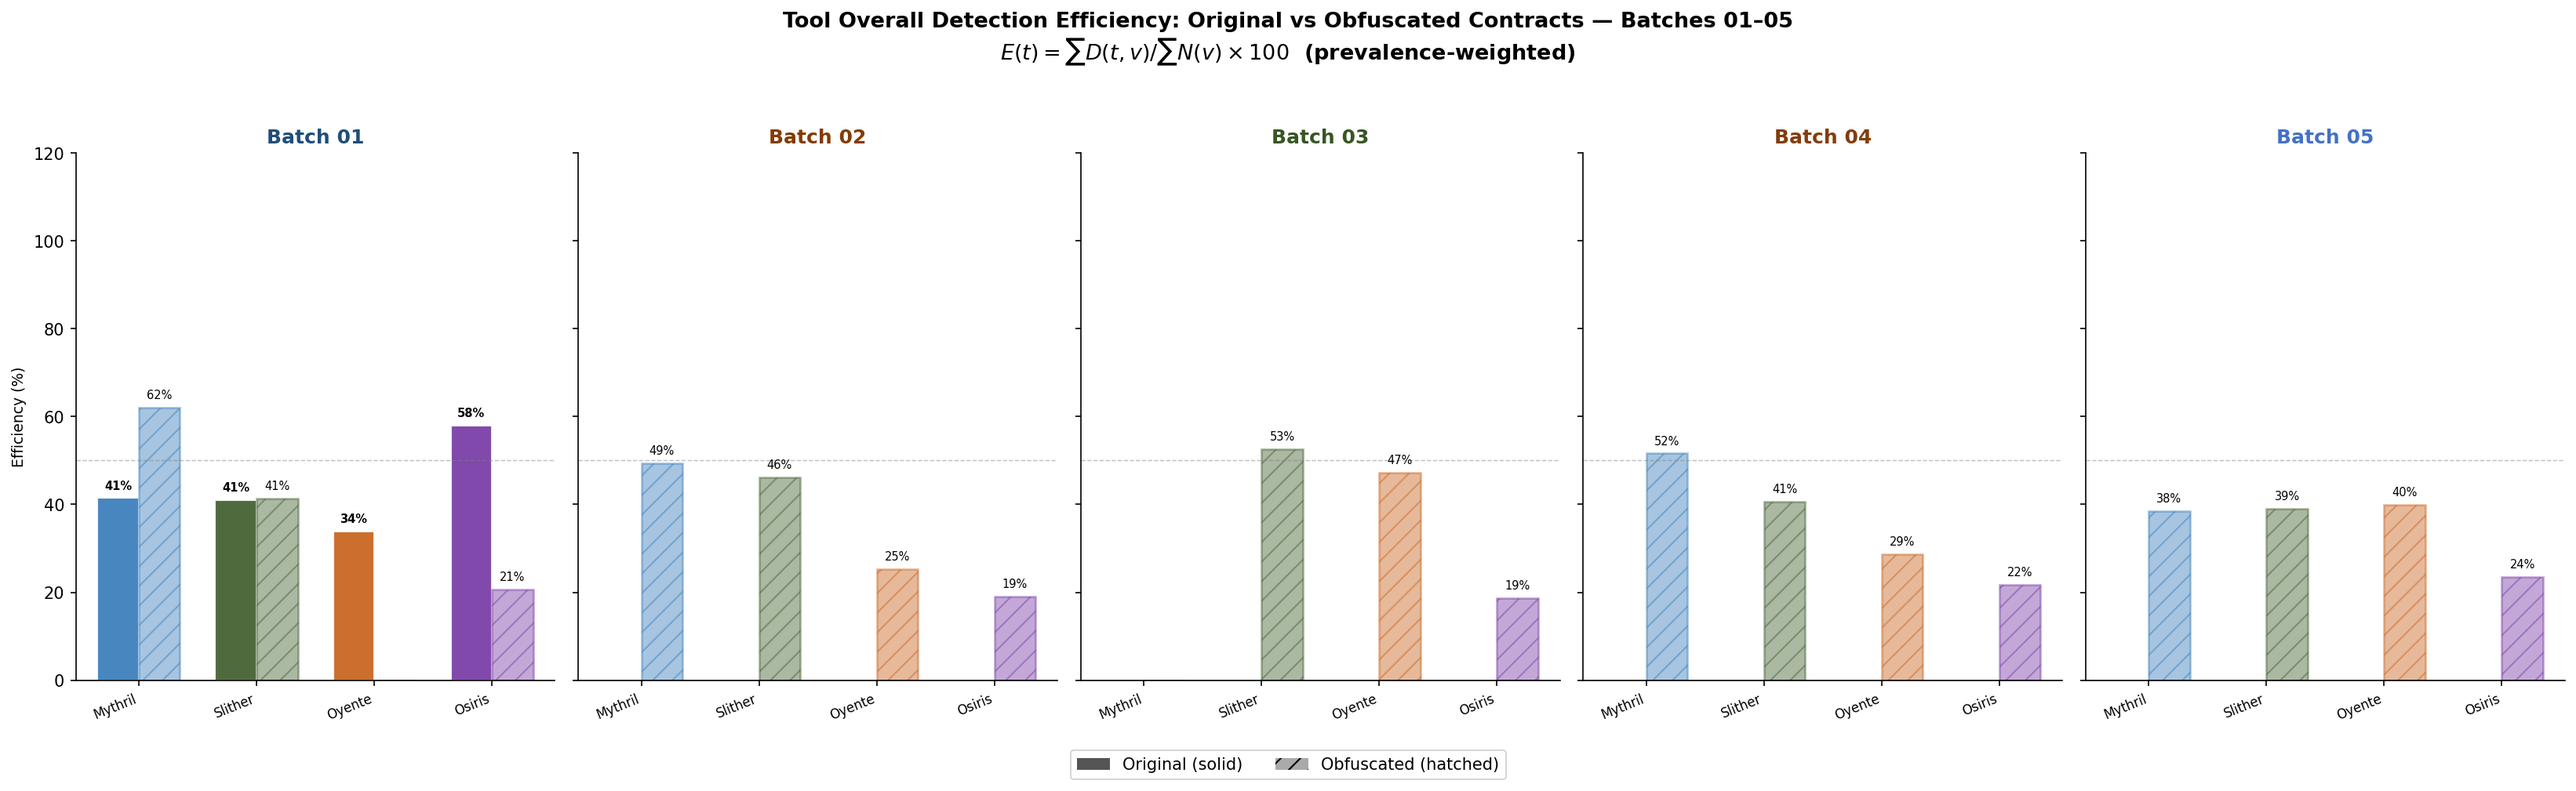
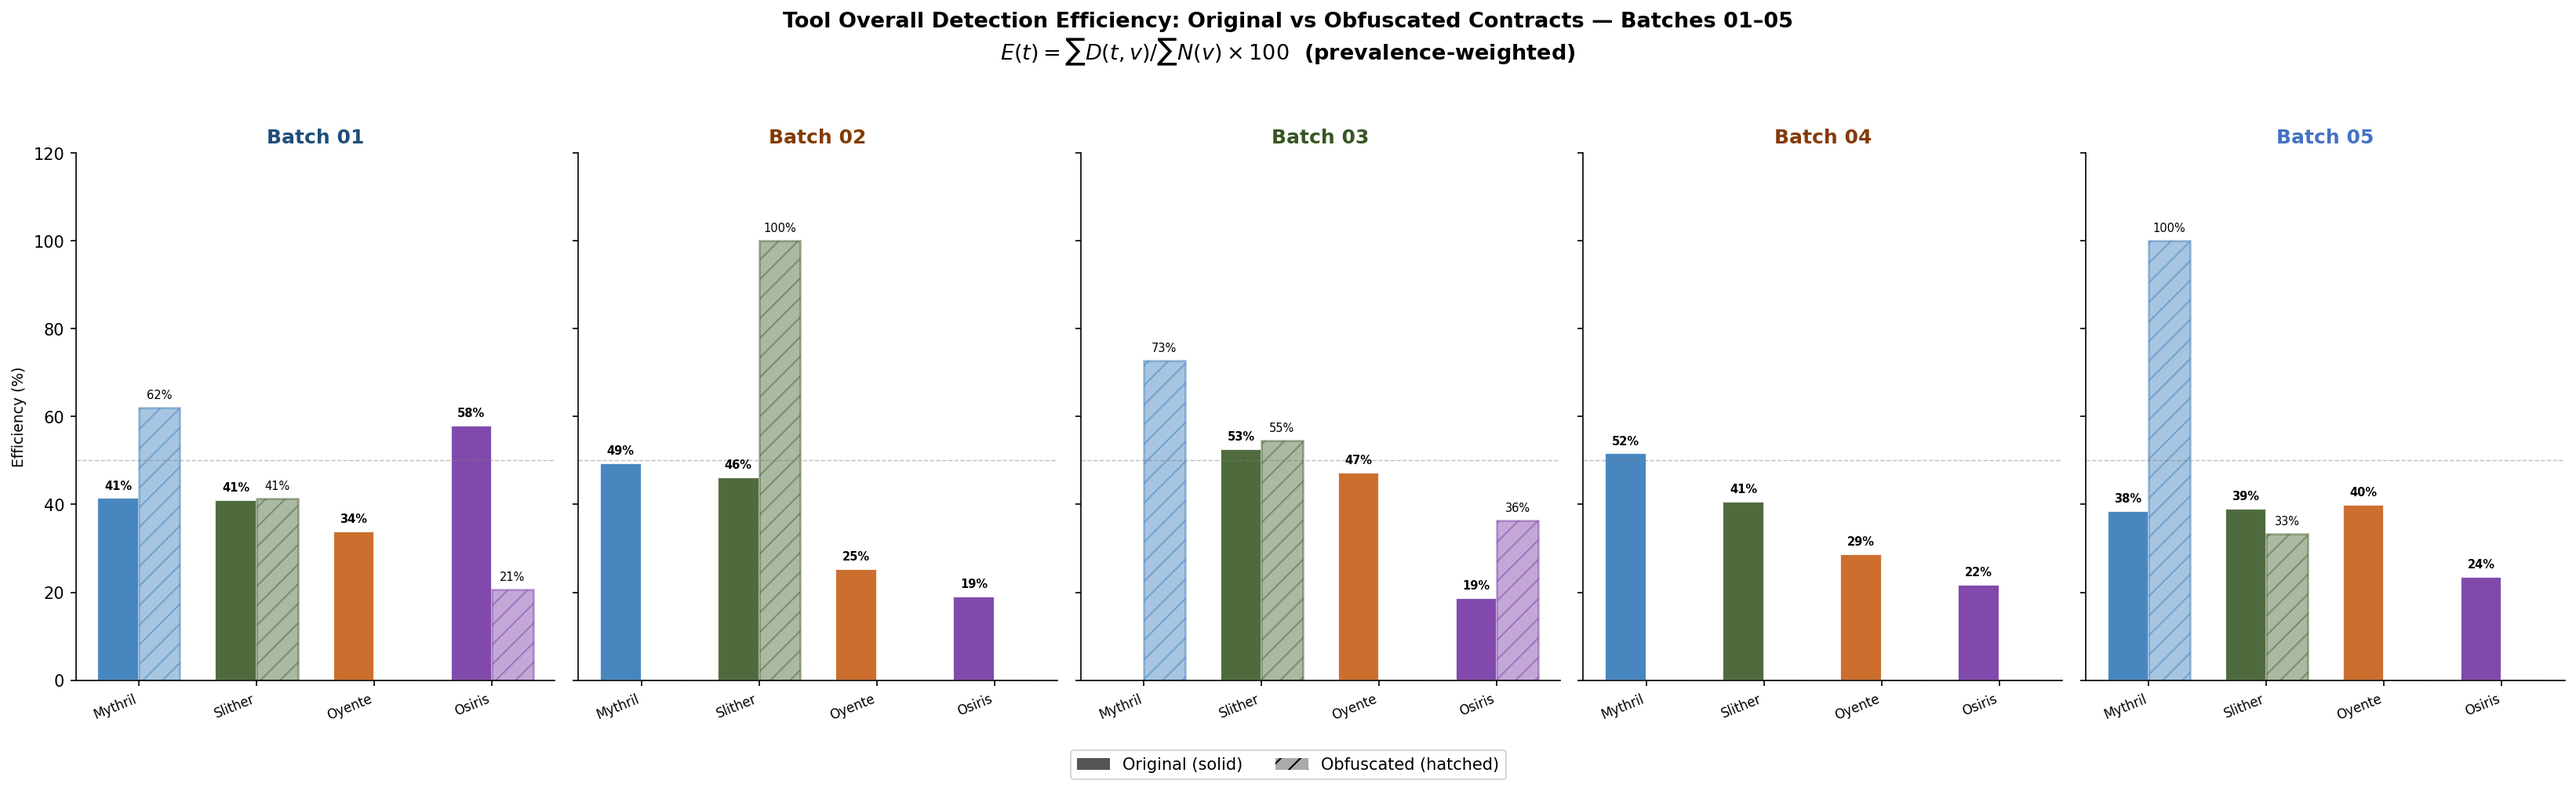
Fix vulnerability efficiency plots: correct OVERALL bar values for all batches
- Fix OVERALL row detection to handle 'OVERALL (Weighted)' variant
- Remove tc fallback that caused wrong column mapping for batches 02-05
- Prevent note rows containing 'overall' from overwriting OVERALL data
- Regenerate affected plots: 01_overall_efficiency, 04_tool_trend, 09_heatmap, 10_robustness

Changed region(s): [[0.4348, 0.2765, 0.9939, 0.8603], [0.2174, 0.2765, 0.4038, 0.8603]]

diff --git a/Analysis/plots/generate_vuln_efficiency_plots.py b/Analysis/plots/generate_vuln_efficiency_plots.py
@@ -112,8 +112,8 @@ def load_batch(batch_num):
             if not row or row[0] is None:
                 continue
             vuln = str(row[0]).strip()
-            if not vuln or vuln.lower() in ('vulnerability', 'overall'):
-                if str(row[0]).strip().upper() == 'OVERALL':
+            if not vuln or vuln.lower() == 'vulnerability' or vuln.lower().startswith('overall'):
+                if str(row[0]).strip().upper().startswith('OVERALL'):
                     e = {}
                     for ti, tool in enumerate(TOOLS):
                         col = 3 + ti * 2   # Efficiency columns: 3,5,7,9
@@ -126,6 +126,8 @@ def load_batch(batch_num):
                 if v.lower() in vuln.lower() or vuln.lower() in v.lower():
                     canon = v
                     break
+            if canon == 'OVERALL':
+                continue  # note rows containing "overall" must not overwrite the OVERALL entry
             n_pos = row[1] if len(row) > 1 else None
             try:
                 nv[canon] = int(n_pos) if n_pos is not None else 0
@@ -200,12 +202,8 @@ def get_val(batch, mode, vuln, tool):
 def get_overall(batch, mode, tool):
     if DATA[batch] is None:
         return 0
-    tc = DATA[batch].get('tool_comparison', {})
-    if tool in tc and tc[tool].get(mode) is not None:
-        return tc[tool][mode]
-    # fallback: read from OVERALL row in eff sheet
-    d = DATA[batch][mode]
-    return d.get('OVERALL', {}).get(tool) or 0
+    val = DATA[batch][mode].get('OVERALL', {}).get(tool)
+    return val if val is not None else 0
 
 # ─────────────────────────────────────────────────────────────
 # PLOT 1 — Overall efficiency: Original vs Obfuscated (all batches)
